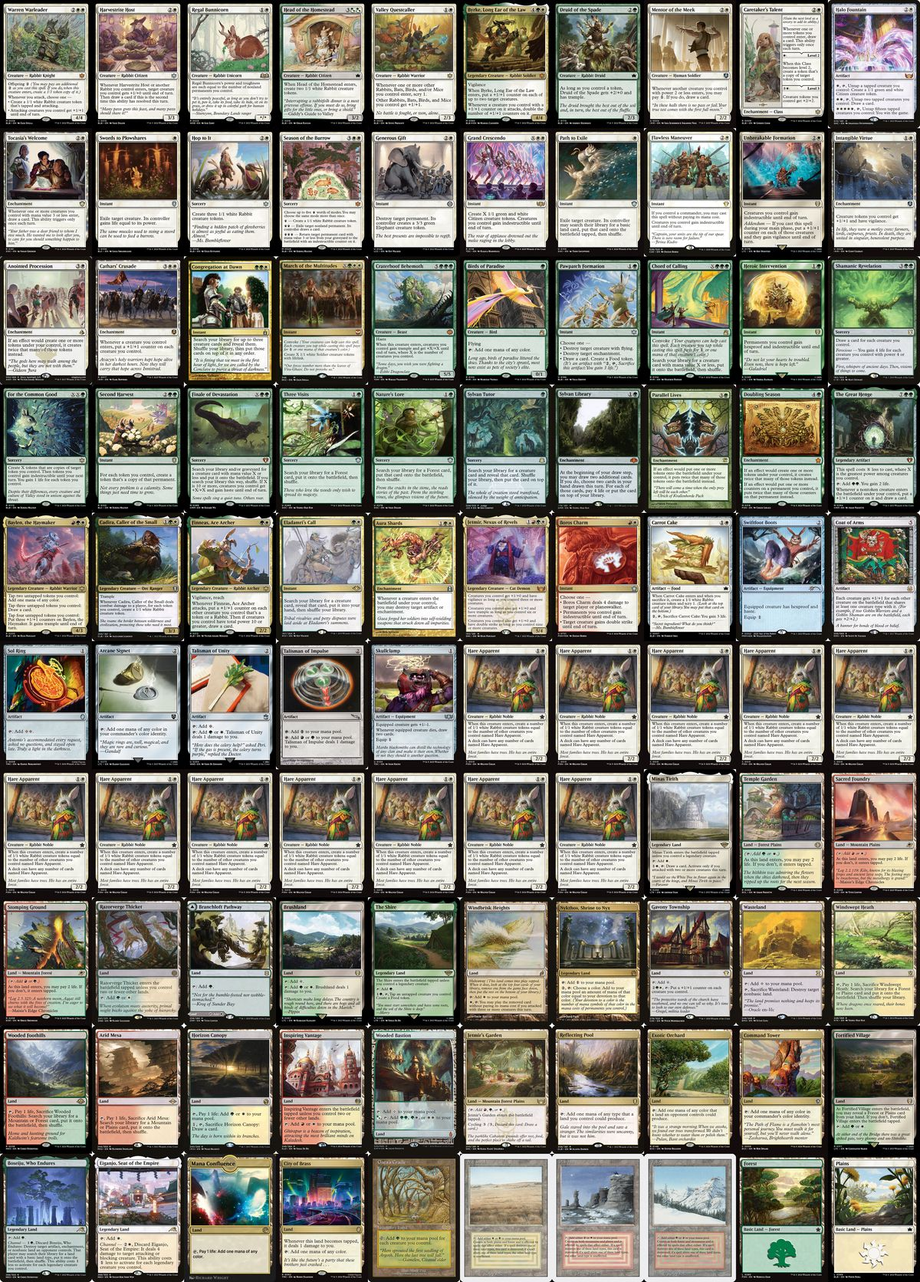
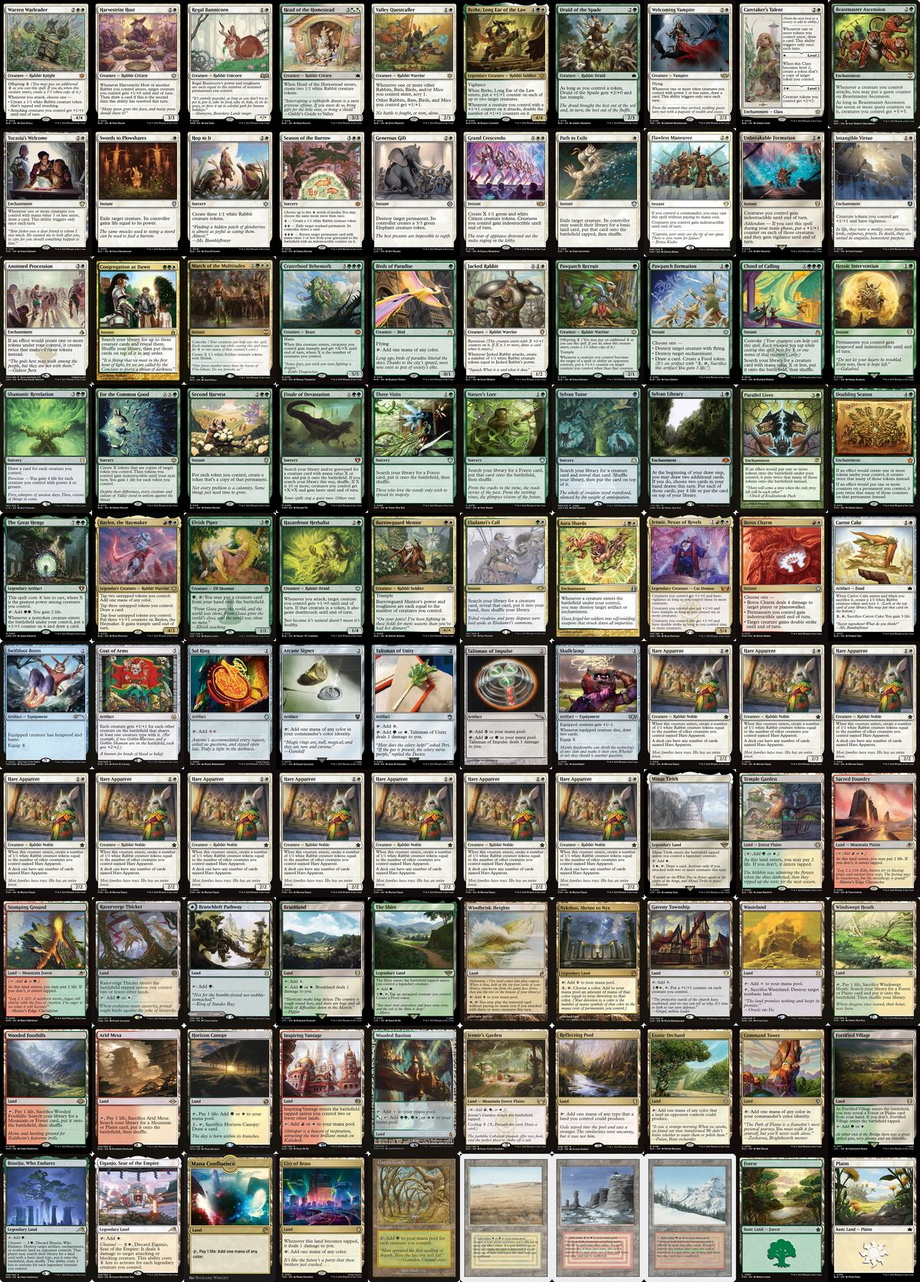
Major creature overhaul: 7 swaps per deck, HA 12→10
Cuts (both decks):
- Finneas, Ace Archer (too fragile, slow)
- Cadira, Caller of the Small (never connects)
- Halo Fountain (conflicts with Baylen tapping)
- Cathars' Crusade (too expensive, win-more)
- Mentor of the Meek (redundant with Welcoming Vampire)
- 2× Hare Apparent (12→10 for more creature diversity)

Adds (both decks):
- Welcoming Vampire (card draw off every token ETB)
- Elvish Piper (cheats in Craterhoof/Jetmir for G+tap)
- Beastmaster Ascension (3 mana, +5/+5 after one combat)
- Jacked Rabbit (T1 blocker, scales with big mana)
- Hazardroot Herbalist (hexproof protection for Baylen)
- Burrowguard Mentor (training + rabbit token generation)
- Druid of the Spade (B4, already in B3)
- Pawpatch Recruit (B3 only, T1 vigilance blocker)

Cut cards moved to sideboard. README Halo Fountain reference removed.

Changed region(s): [[0.0, 0.1866, 1.0, 0.622], [0.8942, 0.0, 1.0, 0.0933], [0.7092, 0.0, 0.8017, 0.0933]]

diff --git a/scripts/generate_mosaic.py b/scripts/generate_mosaic.py
@@ -35,17 +35,18 @@ ORDERED_NAMES_B4 = [
     # Row 1: White creatures (bunnies first) + white artifacts/enchantments
     "Warren Warleader", "Harvestrite Host", "Regal Bunnicorn",
     "Head of the Homestead", "Valley Questcaller",
-    "Byrke, Long Ear of the Law", "Mentor of the Meek",
-    "Caretaker's Talent", "Halo Fountain", "Tocasia's Welcome",
+    "Byrke, Long Ear of the Law", "Welcoming Vampire",
+    "Caretaker's Talent", "Beastmaster Ascension", "Tocasia's Welcome",
     # Row 2: White instants/sorceries/enchantments (bunny art first)
     "Swords to Plowshares", "Hop to It", "Season of the Burrow",
     "Generous Gift", "Grand Crescendo", "Path to Exile",
     "Teferi's Protection", "Unbreakable Formation",
     "Smothering Tithe", "Intangible Virtue",
     # Row 3: More white enchantments + green creatures (bunnies first)
-    "Anointed Procession", "Cathars' Crusade", "Enlightened Tutor",
+    "Anointed Procession", "Enlightened Tutor",
     "March of the Multitudes",
     "Craterhoof Behemoth", "Birds of Paradise",
+    "Druid of the Spade", "Jacked Rabbit",
     "Pawpatch Formation",
     "Chord of Calling", "Heroic Intervention",
     "Shamanic Revelation",
@@ -57,7 +58,7 @@ ORDERED_NAMES_B4 = [
     # Row 5: More green enchantments + multicolor (bunnies first)
     "Doubling Season", "The Great Henge",
     "Baylen, the Haymaker",
-    "Cadira, Caller of the Small", "Finneas, Ace Archer",
+    "Elvish Piper", "Hazardroot Herbalist", "Burrowguard Mentor",
     "Eladamri's Call", "Aura Shards",
     "Jetmir, Nexus of Revels",
     "Boros Charm",
@@ -68,7 +69,7 @@ ORDERED_NAMES_B4 = [
     "Chrome Mox", "Skullclamp",
     *["Hare Apparent"] * 3,
     # Row 7: Hare Apparent continued
-    *["Hare Apparent"] * 9,
+    *["Hare Apparent"] * 7,
     "Minas Tirith",
     # Row 8: Modern lands — shocks + checklands + utility
     "Temple Garden", "Sacred Foundry", "Stomping Ground",
@@ -95,8 +96,8 @@ ORDERED_NAMES_B3 = [
     # Row 1: White creatures (bunnies first) + white artifacts/enchantments
     "Warren Warleader", "Harvestrite Host", "Regal Bunnicorn",
     "Head of the Homestead", "Valley Questcaller",
-    "Byrke, Long Ear of the Law", "Druid of the Spade", "Mentor of the Meek",
-    "Caretaker's Talent", "Halo Fountain",
+    "Byrke, Long Ear of the Law", "Druid of the Spade", "Welcoming Vampire",
+    "Caretaker's Talent", "Beastmaster Ascension",
     # Row 2: White instants/sorceries/enchantments (bunny art first)
     "Tocasia's Welcome",
     "Swords to Plowshares", "Hop to It", "Season of the Burrow",
@@ -104,9 +105,10 @@ ORDERED_NAMES_B3 = [
     "Flawless Maneuver", "Unbreakable Formation",
     "Intangible Virtue",
     # Row 3: More white enchantments + green creatures (bunnies first)
-    "Anointed Procession", "Cathars' Crusade", "Congregation at Dawn",
+    "Anointed Procession", "Congregation at Dawn",
     "March of the Multitudes",
     "Craterhoof Behemoth", "Birds of Paradise",
+    "Jacked Rabbit", "Pawpatch Recruit",
     "Pawpatch Formation",
     "Chord of Calling", "Heroic Intervention",
     "Shamanic Revelation",
@@ -118,7 +120,7 @@ ORDERED_NAMES_B3 = [
     # Row 5: More green enchantments + multicolor (bunnies first)
     "Doubling Season", "The Great Henge",
     "Baylen, the Haymaker",
-    "Cadira, Caller of the Small", "Finneas, Ace Archer",
+    "Elvish Piper", "Hazardroot Herbalist", "Burrowguard Mentor",
     "Eladamri's Call", "Aura Shards",
     "Jetmir, Nexus of Revels",
     "Boros Charm",
@@ -129,7 +131,7 @@ ORDERED_NAMES_B3 = [
     "Talisman of Unity", "Talisman of Impulse", "Skullclamp",
     *["Hare Apparent"] * 3,
     # Row 7: Hare Apparent continued
-    *["Hare Apparent"] * 9,
+    *["Hare Apparent"] * 7,
     "Minas Tirith",
     # Row 8: Modern lands — shocks + checklands + utility
     "Temple Garden", "Sacred Foundry", "Stomping Ground",

diff --git a/theme_analysis.md b/theme_analysis.md
@@ -23,24 +23,27 @@
 
 ---
 
-## Creatures (14 unique — 25 cards with 12× Hare Apparent)
+## Creatures (17 unique — 27 cards with 10× Hare Apparent)
 
 | Card | Deck | Scryfall | Rabbit? | Rabbit Art? | Party? | Theme | Justification |
 |------|------|----------|---------|-------------|--------|-------|---------------|
 | Hare Apparent ×12 | Both | [🔗](https://scryfall.com/card/fdn/15/hare-apparent) | ✅ | ✅ | ✅ | 10 | The twelve identical guests who all brought the same dish to the potluck. Alone they're small, but together each one grows stronger for every other Hare in the room. The party wouldn't exist without them. |
 | Warren Warleader | Both | [🔗](https://scryfall.com/card/blb/38/warren-warleader) | ✅ | ✅ | ✅ | 9 | The bouncer who's also the life of the party. Every time she swings, two more bunnies hop through the door and the whole crew gets pumped. Nobody causes trouble on her watch. |
-| Cadira, Caller of the Small | Both | [🔗](https://scryfall.com/card/clb/269/cadira-caller-of-the-small) | ❌ | ✅ | ✅ | 8 | She's not a rabbit herself, but she invited every small friend she knows. One good hit and the guest list doubles — for each token you have, another rabbit arrives. The ultimate party promoter. |
+| Elvish Piper | Both | [🔗](https://scryfall.com/card/a25/168/elvish-piper) | ❌ | ❌ | ✅ | 5 | The backstage manager who sneaks the headliner in through the side door. Tap her and any creature in your hand walks onto the stage for free — Craterhoof, Jetmir, whoever's next on the setlist. |
 | Harvestrite Host | Both | [🔗](https://scryfall.com/card/blb/15/harvestrite-host) | ✅ | ✅ | ✅ | 9 | Literally "the host." Every time a new rabbit arrives, someone gets pumped up, and the moment a second guest hops through the door this turn, she hands out a party favor (a card). Rabbits gathered around a harvest table loaded with food, lanterns glowing overhead. Peak celebration energy. |
 | Regal Bunnicorn | Both | [🔗](https://scryfall.com/card/woe/25/regal-bunnicorn) | ✅ | ✅ | ✅ | 9 | The fancy guest who shows up looking better every time someone else arrives. Power and toughness equal to your nonland permanents — at a party this size, she's enormous. |
-| Finneas, Ace Archer | Both | [🔗](https://scryfall.com/card/blb/212/finneas-ace-archer) | ✅ | ✅ | ✅ | 8 | The sharpshooter at the ring-toss booth. Counters stack on rabbits and tokens whenever he attacks, and once the crew's power hits double digits, he draws a card. Competitive party games are his thing. |
+| Welcoming Vampire | Both | [🔗](https://scryfall.com/card/tdc/140/welcoming-vampire) | ❌ | ❌ | ✅ | 7 | The gracious host at the door who greets every new face with a smile and a card. Whenever a creature with power 2 or less enters, she draws — and in a deck full of 1/1 rabbits, the welcome never ends. Flying lets her keep an eye on the whole party from above. |
 | Head of the Homestead | Both | [🔗](https://scryfall.com/card/blb/216/head-of-the-homestead) | ✅ | ✅ | ✅ | 9 | Opens the front door and immediately two bunnies show up behind her. The Head of the Homestead is the one making sure everyone has a place to sit and a carrot to munch. |
 | Valley Questcaller | Both | [🔗](https://scryfall.com/card/blb/36/valley-questcaller) | ✅ | ✅ | ✅ | 9 | The hype-rabbit shouting "let's go!" from the doorway. Every newcomer enters the party pumped with a static +1/+1 lord effect, and each arrival triggers a scry to plan the next wave of guests. |
 | Byrke, Long Ear of the Law | Both | [🔗](https://scryfall.com/card/blb/380/byrke-long-ear-of-the-law) | ✅ | ✅ | ✅ | 8 | The sheriff who surprisingly knows how to double down at the after-party. Places counters on arrival and then doubles every counter on every creature that swings. Byrke is the reason the party escalates. |
 | Craterhoof Behemoth | Both | [🔗](https://scryfall.com/card/tdm/138/craterhoof-behemoth) | ❌ | ❌ | ✅ | 8 | The guest of honor nobody sees coming. One moment it's a quiet gathering of bunnies around a layered cake, lanterns glowing in the trees — the next, a vine-covered behemoth rises over the treeline and every creature at the party surges with +15/+15 and trample. The sleeve art tells the whole story: Baylen carving the cake, dozens of rabbits feasting, and Craterhoof crashing through the canopy to end the evening. The party's over — for everyone else. |
 | Jetmir, Nexus of Revels | Both | [🔗](https://scryfall.com/card/snc/193/jetmir-nexus-of-revels) | ❌ | ❌ | ✅ | 7 | The VIP from out of town. His name literally has "Revels" in it — he IS the party. Three creatures? Vigilance. Six? Trample. Nine? Double strike. The energy is electric once the headcount hits critical mass. |
-| Mentor of the Meek | Both | [🔗](https://scryfall.com/card/inr/34/mentor-of-the-meek) | ❌ | ❌ | ✅ | 5 | The one handing out party favors every time a small friend walks through the door. Pay one mana, draw a card. With 12 Hare Apparent entering all night, the Mentor never stops giving. |
+| Jacked Rabbit | Both | [🔗](https://scryfall.com/card/blc/9/jacked-rabbit) | ✅ | ✅ | ✅ | 9 | The scrappy little rabbit who showed up first and never left. One green mana, drops turn one, and once the party's generating big mana he pumps himself into a monster. The runt of the litter who outgrew everyone. |
 | Birds of Paradise | Both | [🔗](https://scryfall.com/card/rvr/133/birds-of-paradise) | ❌ | ❌ | ✅ | 4 | The exotic tropical birds perched around the venue as living decorations. They're colorful, they're beautiful, and they make the whole party feel lush — tapping for any color of mana like floral arrangements that somehow also pay the bills. |
-| Druid of the Spade | B3 | [🔗](https://scryfall.com/card/blb/170/druid-of-the-spade) | ✅ | ✅ | ✅ | 8 | The gardener rabbit who dug up the party decorations and planted the centerpieces. Gets +2/+0 and trample when tokens are around — and they're always around. A Bloomburrow local who earned her invite. |
+| Druid of the Spade | Both | [🔗](https://scryfall.com/card/blb/170/druid-of-the-spade) | ✅ | ✅ | ✅ | 8 | The gardener rabbit who dug up the party decorations and planted the centerpieces. Gets +2/+0 and trample when tokens are around — and they're always around. A Bloomburrow local who earned her invite. |
+| Hazardroot Herbalist | Both | [🔗](https://scryfall.com/card/blb/174/hazardroot-herbalist) | ✅ | ✅ | ✅ | 8 | The rabbit apothecary who always has the right remedy. Shows up and immediately throws a protective charm on Baylen — hexproof until your next turn. The party's designated healer, making sure the host stays standing no matter what gets thrown at him. |
+| Burrowguard Mentor | Both | [🔗](https://scryfall.com/card/blb/206/burrowguard-mentor) | ✅ | ✅ | ✅ | 8 | The veteran rabbit who trains the new recruits. Attacks alongside smaller creatures and grows from the experience, then creates a rabbit token to join the cause. The mentor who leads by example and keeps the ranks filled. |
+| Pawpatch Recruit | B3 | [🔗](https://scryfall.com/card/blb/187/pawpatch-recruit) | ✅ | ✅ | ✅ | 7 | The eager volunteer who showed up first to help set up. One green mana, a 1/2 with vigilance — blocks early, stays available for Baylen's tap abilities, and never misses a shift. The party's reliable first responder. |
 
 ---
 
@@ -83,13 +86,12 @@
 
 ---
 
-## Artifacts (12)
+## Artifacts (10)
 
 | Card | Deck | Scryfall | Rabbit? | Rabbit Art? | Party? | Theme | Justification |
 |------|------|----------|---------|-------------|--------|-------|---------------|
 | Carrot Cake | Both | [🔗](https://scryfall.com/card/blb/7/carrot-cake) | ❌ | ✅ | ✅ | 10 | The layered centerpiece Baylen carves at the head of the table. A rabbit baked this cake, a rabbit pops out when it arrives, and you get a peek at what’s next (scry 1). Sacrifice it later for 3 life — leftovers are still good. Peak party flavor. |
-| Halo Fountain | Both | [🔗](https://scryfall.com/card/snc/15/halo-fountain) | ❌ | ❌ | ✅ | 7 | The decorative fountain in the garden — tap a few guests to make tokens, tap a few more to draw cards, and tap fifteen to literally win the game. The ultimate party trick hidden in plain sight. |
-| Coat of Arms | Both | [🔗](https://scryfall.com/card/dds/58/coat-of-arms) | ❌ | ❌ | ✅ | 7 | The dress code is "matching." Every rabbit wearing the family crest makes every other rabbit bigger. With 12 Hare Apparent at the party, each one is a 12/12. The coat of arms is the party uniform. |
+| Coat of Arms | Both | [🔗](https://scryfall.com/card/dds/58/coat-of-arms) | ❌ | ❌ | ✅ | 7 | The dress code is "matching." Every rabbit wearing the family crest makes every other rabbit bigger. With 10 Hare Apparent at the party, each one is a 10/10. The coat of arms is the party uniform. |
 | The Great Henge | Both | [🔗](https://scryfall.com/card/cmm/294/the-great-henge) | ❌ | ❌ | ✅ | 5 | The ancient monument in the backyard where the real party happens. Every creature that arrives gets a +1/+1 counter and draws a card. It's the gathering place — massive, green, and full of life. |
 | Sol Ring | Both | [🔗](https://scryfall.com/card/tmc/59/sol-ring) | ❌ | ❌ | ✅ | 3 | The neon pizza sign hanging in the party venue. Powers everything, fits in every deck, and now it looks like the kind of thing you'd see glowing above the snack table at 2 AM. Cowabunga. |
 | Arcane Signet | Both | [🔗](https://scryfall.com/card/ltc/273/arcane-signet) | ❌ | ❌ | ✅ | 4 | The wax seal on the party invitations. Every guest received one — stamped with Baylen's crest, producing mana in the commander's colors. The signet is how you know this is an official event. |
@@ -113,7 +115,7 @@
 | Parallel Lives | Both | [🔗](https://scryfall.com/card/isd/199/parallel-lives) | ❌ | ❌ | ✅ | 5 | The mirror ball splits every token into two. Same deal as Anointed Procession but in green — every rabbit brings a twin. The party doubles in parallel. |
 | Doubling Season | Both | [🔗](https://scryfall.com/card/fdn/216/doubling-season) | ❌ | ❌ | ✅ | 5 | The party doubles AND the party favors double. Tokens AND counters — it's literally twice the everything. The season of excess. |
 | Sylvan Library | Both | [🔗](https://scryfall.com/card/dmr/179/sylvan-library) | ❌ | ❌ | ❌ | 2 | The bookshelf in the corner where the introverts gather. Look at three cards, keep the extras for 4 life each. Knowledge is power, even at a party. |
-| Cathars' Crusade | Both | [🔗](https://scryfall.com/card/inr/17/cathars-crusade) | ❌ | ❌ | ✅ | 5 | Every new guest gets the crowd more pumped — permanently. Each creature ETB puts a +1/+1 counter on everything. The crusade is just the party reaching critical mass and spilling into the streets. |
+| Beastmaster Ascension | Both | [🔗](https://scryfall.com/card/ncc/283/beastmaster-ascension) | ❌ | ❌ | ✅ | 6 | The moment the party hits critical mass. Seven creatures swing, the quest counters max out, and suddenly every rabbit at the table gets +5/+5. One combat and the energy goes from "cute gathering" to "unstoppable force." |
 | Aura Shards | Both | [🔗](https://scryfall.com/card/cmd/182/aura-shards) | ❌ | ❌ | ❌ | 3 | The party's cleanup crew. Every creature that enters shatters an opponent's artifact or enchantment. They're not here for the fun — they're here to break the opposition's toys. |
 | Smothering Tithe | B4 | [🔗](https://scryfall.com/card/p22/5/smothering-tithe) | ❌ | ❌ | ✅ | 4 | The cover charge. Every time an opponent draws, they pay 2 or you get a Treasure. The party has a velvet rope and a minimum spend. Someone has to fund the decorations. |
 | Survival of the Fittest | B4 | [🔗](https://scryfall.com/card/g09/4/survival-of-the-fittest) | ❌ | ❌ | ❌ | 2 | The VIP list. Discard any creature, search for the exact one you want. Ruthlessly efficient guest management — only the fittest survive the final cut. |
@@ -132,7 +134,7 @@
 | The Shire | Both | [🔗](https://scryfall.com/card/ltr/260/the-shire) | ❌ | ❌ | ✅ | 7 | The coziest venue on the guest list. Hobbit-holes and rabbit warrens share the same architectural philosophy — round doors, warm hearths, second breakfasts. The Shire IS a perpetual party. |
 | Gavony Township | Both | [🔗](https://scryfall.com/card/c20/276/gavony-township) | ❌ | ❌ | ✅ | 5 | The town square where everyone gathers to get pumped. Tap four mana and every creature gets a +1/+1 counter. The township rallies together — it's a community event. |
 | Windbrisk Heights | Both | [🔗](https://scryfall.com/card/lrw/281/windbrisk-heights) | ❌ | ❌ | ✅ | 7 | The secret room behind the bookcase where the real party happens. Attack with three creatures — trivially easy — and the hidden card plays for free. Sometimes it's Craterhoof. Sometimes it's Doubling Season. Either way, the surprise guest steals the show. |
-| Nykthos, Shrine to Nyx | Both | [🔗](https://scryfall.com/card/ths/223/nykthos-shrine-to-nyx) | ❌ | ❌ | ✅ | 6 | The shrine where the party pilgrims gather. Every white pip on every Hare Apparent, every Anointed Procession, every Cathars' Crusade adds to the devotion — the bigger the crowd, the more the shrine pulses with energy. Taps for 10+ mana when the celebration hits critical mass. |
+| Nykthos, Shrine to Nyx | Both | [🔗](https://scryfall.com/card/ths/223/nykthos-shrine-to-nyx) | ❌ | ❌ | ✅ | 6 | The shrine where the party pilgrims gather. Every white pip on every Hare Apparent, every Anointed Procession, every Beastmaster Ascension adds to the devotion — the bigger the crowd, the more the shrine pulses with energy. Taps for 10+ mana when the celebration hits critical mass. |
 | Razorverge Thicket | Both | [🔗](https://scryfall.com/card/one/257/razorverge-thicket) | ❌ | ❌ | ❌ | 3 | The thicket at the edge of the meadow where the early arrivals show up. G/W fast land, always untapped in the first three turns when you're setting up the party. Rabbits live in thickets — close enough. |
 | Branchloft Pathway | Both | [🔗](https://scryfall.com/card/znr/258/branchloft-pathway-boulderloft-pathway) | ❌ | ❌ | ❌ | 4 | The woodland path that forks — left to the garden, right to the meadow. Always enters untapped, always the color you need. Follow the pathway to the party. |
 | Reflecting Pool | Both | [🔗](https://scryfall.com/card/clb/358/reflecting-pool) | ❌ | ❌ | ✅ | 4 | The ornamental reflecting pool in the party garden. Mirrors whatever mana your other lands produce — flexible, pretty, and exactly the kind of thing a well-planned party venue has. |
@@ -174,6 +176,11 @@ Cards swapped out for 1v1 play. Swap back in for pod games (3-4 players).
 | Sunpetal Grove | Both | [🔗](https://scryfall.com/card/tdc/399/sunpetal-grove) | Branchloft Pathway | Enters tapped too often in early turns. Pathway is always untapped. |
 | Spectator Seating | Both | [🔗](https://scryfall.com/card/cmm/430/spectator-seating) | Razorverge Thicket | R/W crowd land — always tapped in 1v1. In pods, shores up the weakest color pair. |
 | Spire Garden | Both | [🔗](https://scryfall.com/card/bbd/85/spire-garden) | Branchloft Pathway | R/G crowd land — same deal. In pods, another untapped source for the bonfire colors. |
+| Halo Fountain | Both | [🔗](https://scryfall.com/card/snc/15/halo-fountain) | Beastmaster Ascension | Conflicts with Baylen's tap abilities — wants creatures untapped while Baylen wants them tapped. |
+| Cadira, Caller of the Small | Both | [🔗](https://scryfall.com/card/clb/269/cadira-caller-of-the-small) | Elvish Piper | Rarely connects for combat damage until you're already winning. |
+| Finneas, Ace Archer | Both | [🔗](https://scryfall.com/card/blb/212/finneas-ace-archer) | Welcoming Vampire | Too fragile, too slow to build counters, dies to everything. |
+| Cathars' Crusade | Both | [🔗](https://scryfall.com/card/inr/17/cathars-crusade) | Druid of the Spade (B4) / Pawpatch Recruit (B3) | Too expensive at 5 mana — by then you have other ways to win. |
+| Mentor of the Meek | Both | [🔗](https://scryfall.com/card/inr/34/mentor-of-the-meek) | Jacked Rabbit | Redundant with Welcoming Vampire, no blocking presence. |
 
 ---
 

diff --git a/README.md b/README.md
@@ -6,7 +6,7 @@
 
 Baylen works the room like he was born for this — tap two bunnies and he fills the snack bowl, tap three and he draws the next surprise, tap four and the whole crowd surges with trample. Meanwhile, the crowd keeps multiplying — [Anointed Procession](https://scryfall.com/card/akh/2/anointed-procession), [Parallel Lives](https://scryfall.com/card/isd/199/parallel-lives), [Doubling Season](https://scryfall.com/card/fdn/216/doubling-season) — every rabbit that arrives brings a twin. Then the music gets louder. [Coat of Arms](https://scryfall.com/card/dds/58/coat-of-arms) makes the matching outfits dangerous, [Cathars' Crusade](https://scryfall.com/card/inr/17/cathars-crusade) hypes the crowd with every new arrival, and once [Jetmir, Nexus of Revels](https://scryfall.com/card/snc/193/jetmir-nexus-of-revels) counts enough heads, the dance floor becomes a stampede.
 
-And then, just when everybunny is having the time of their life, [Finale of Devastation](https://scryfall.com/card/cmm/289/finale-of-devastation) sends out one last invitation — [Craterhoof Behemoth](https://scryfall.com/card/tdm/138/craterhoof-behemoth) crashes the party so hard the hedges won't grow back. Table flipped, cake gone, and the cute little party becomes an unstoppable woodland riot. Want a quieter ending? Get fifteen creatures gathered around the [Halo Fountain](https://scryfall.com/card/snc/15/halo-fountain) and the party closes itself out — no behemoth required.
+And then, just when everybunny is having the time of their life, [Finale of Devastation](https://scryfall.com/card/cmm/289/finale-of-devastation) sends out one last invitation — [Craterhoof Behemoth](https://scryfall.com/card/tdm/138/craterhoof-behemoth) crashes the party so hard the hedges won't grow back. Table flipped, cake gone, and the cute little party becomes an unstoppable woodland riot.
 
 **Everybunny's invited. Not everybunny leaves.**
 
